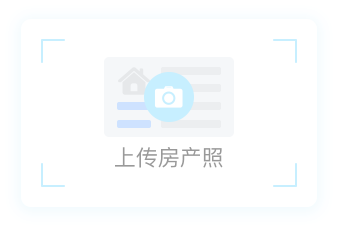
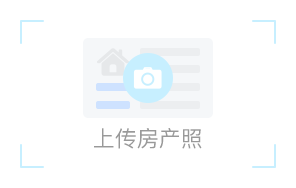
上传证件图片更换

diff --git a/src/pages/business/applySign/applySign.vue b/src/pages/business/applySign/applySign.vue
@@ -159,11 +159,11 @@ export default {
   }
 }
 .van-uploader {
-  width: 300px;
-  height: 260px;
+  width: 296px;
+  height: 188px;
   img {
-    width: 300px;
-    height: 200px;
+    width: 296px;
+    height: 188px;
   }
 }
 .van-tabs__content {
